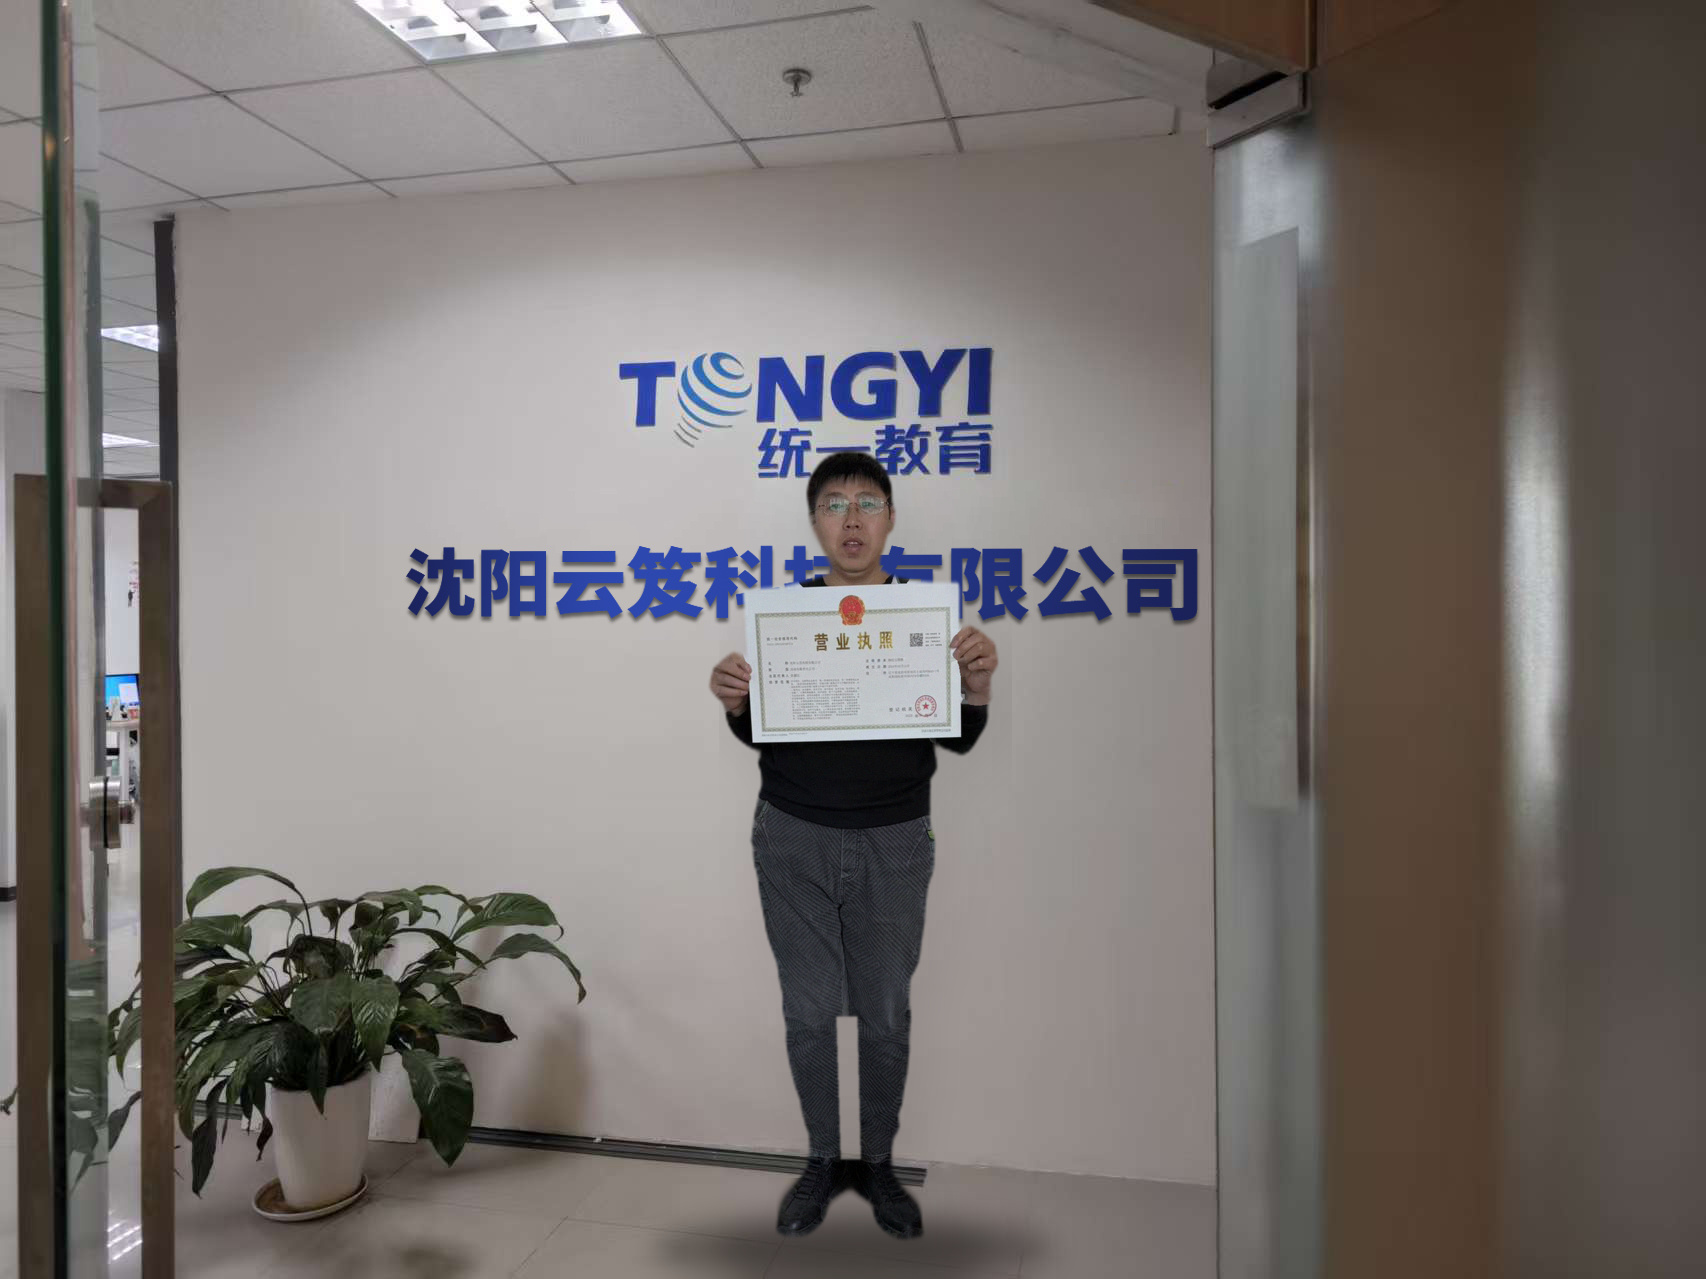
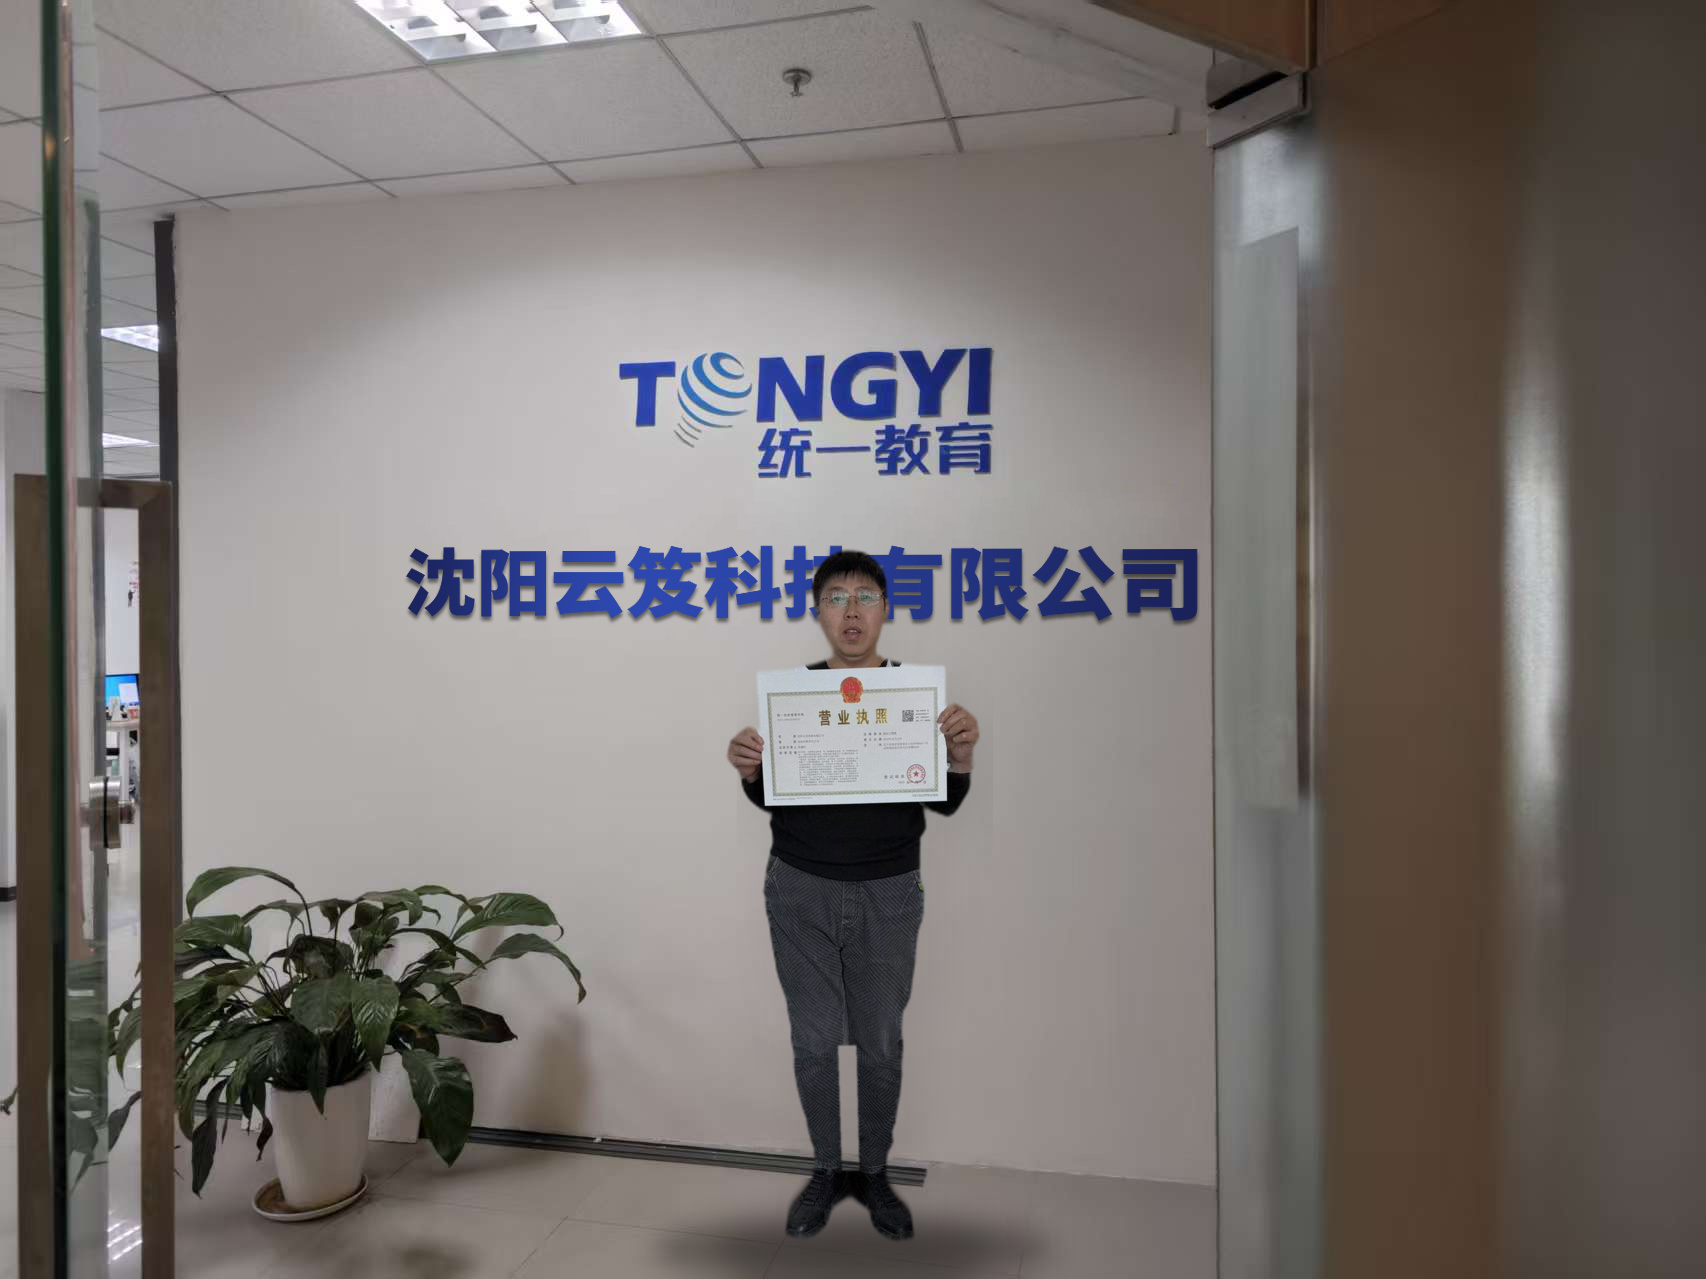
feat: 生成手持营业执照门头拍照

Changed region(s): [[0.4039, 0.3354, 0.5903, 0.7318], [0.4349, 0.8538, 0.5592, 0.9758], [0.4349, 0.7928, 0.5592, 0.8538]]

diff --git a/work/compose.py b/work/compose.py
@@ -60,7 +60,7 @@ bbox = person.getbbox()
 person = person.crop(bbox)
 
 # 4. scale & position
-H = 800
+H = 700
 scale = H / person.height
 person = person.resize((round(person.width * scale), H), Image.LANCZOS)
 # very slight softening + sensor noise to sit in the same optical conditions as the room photo
